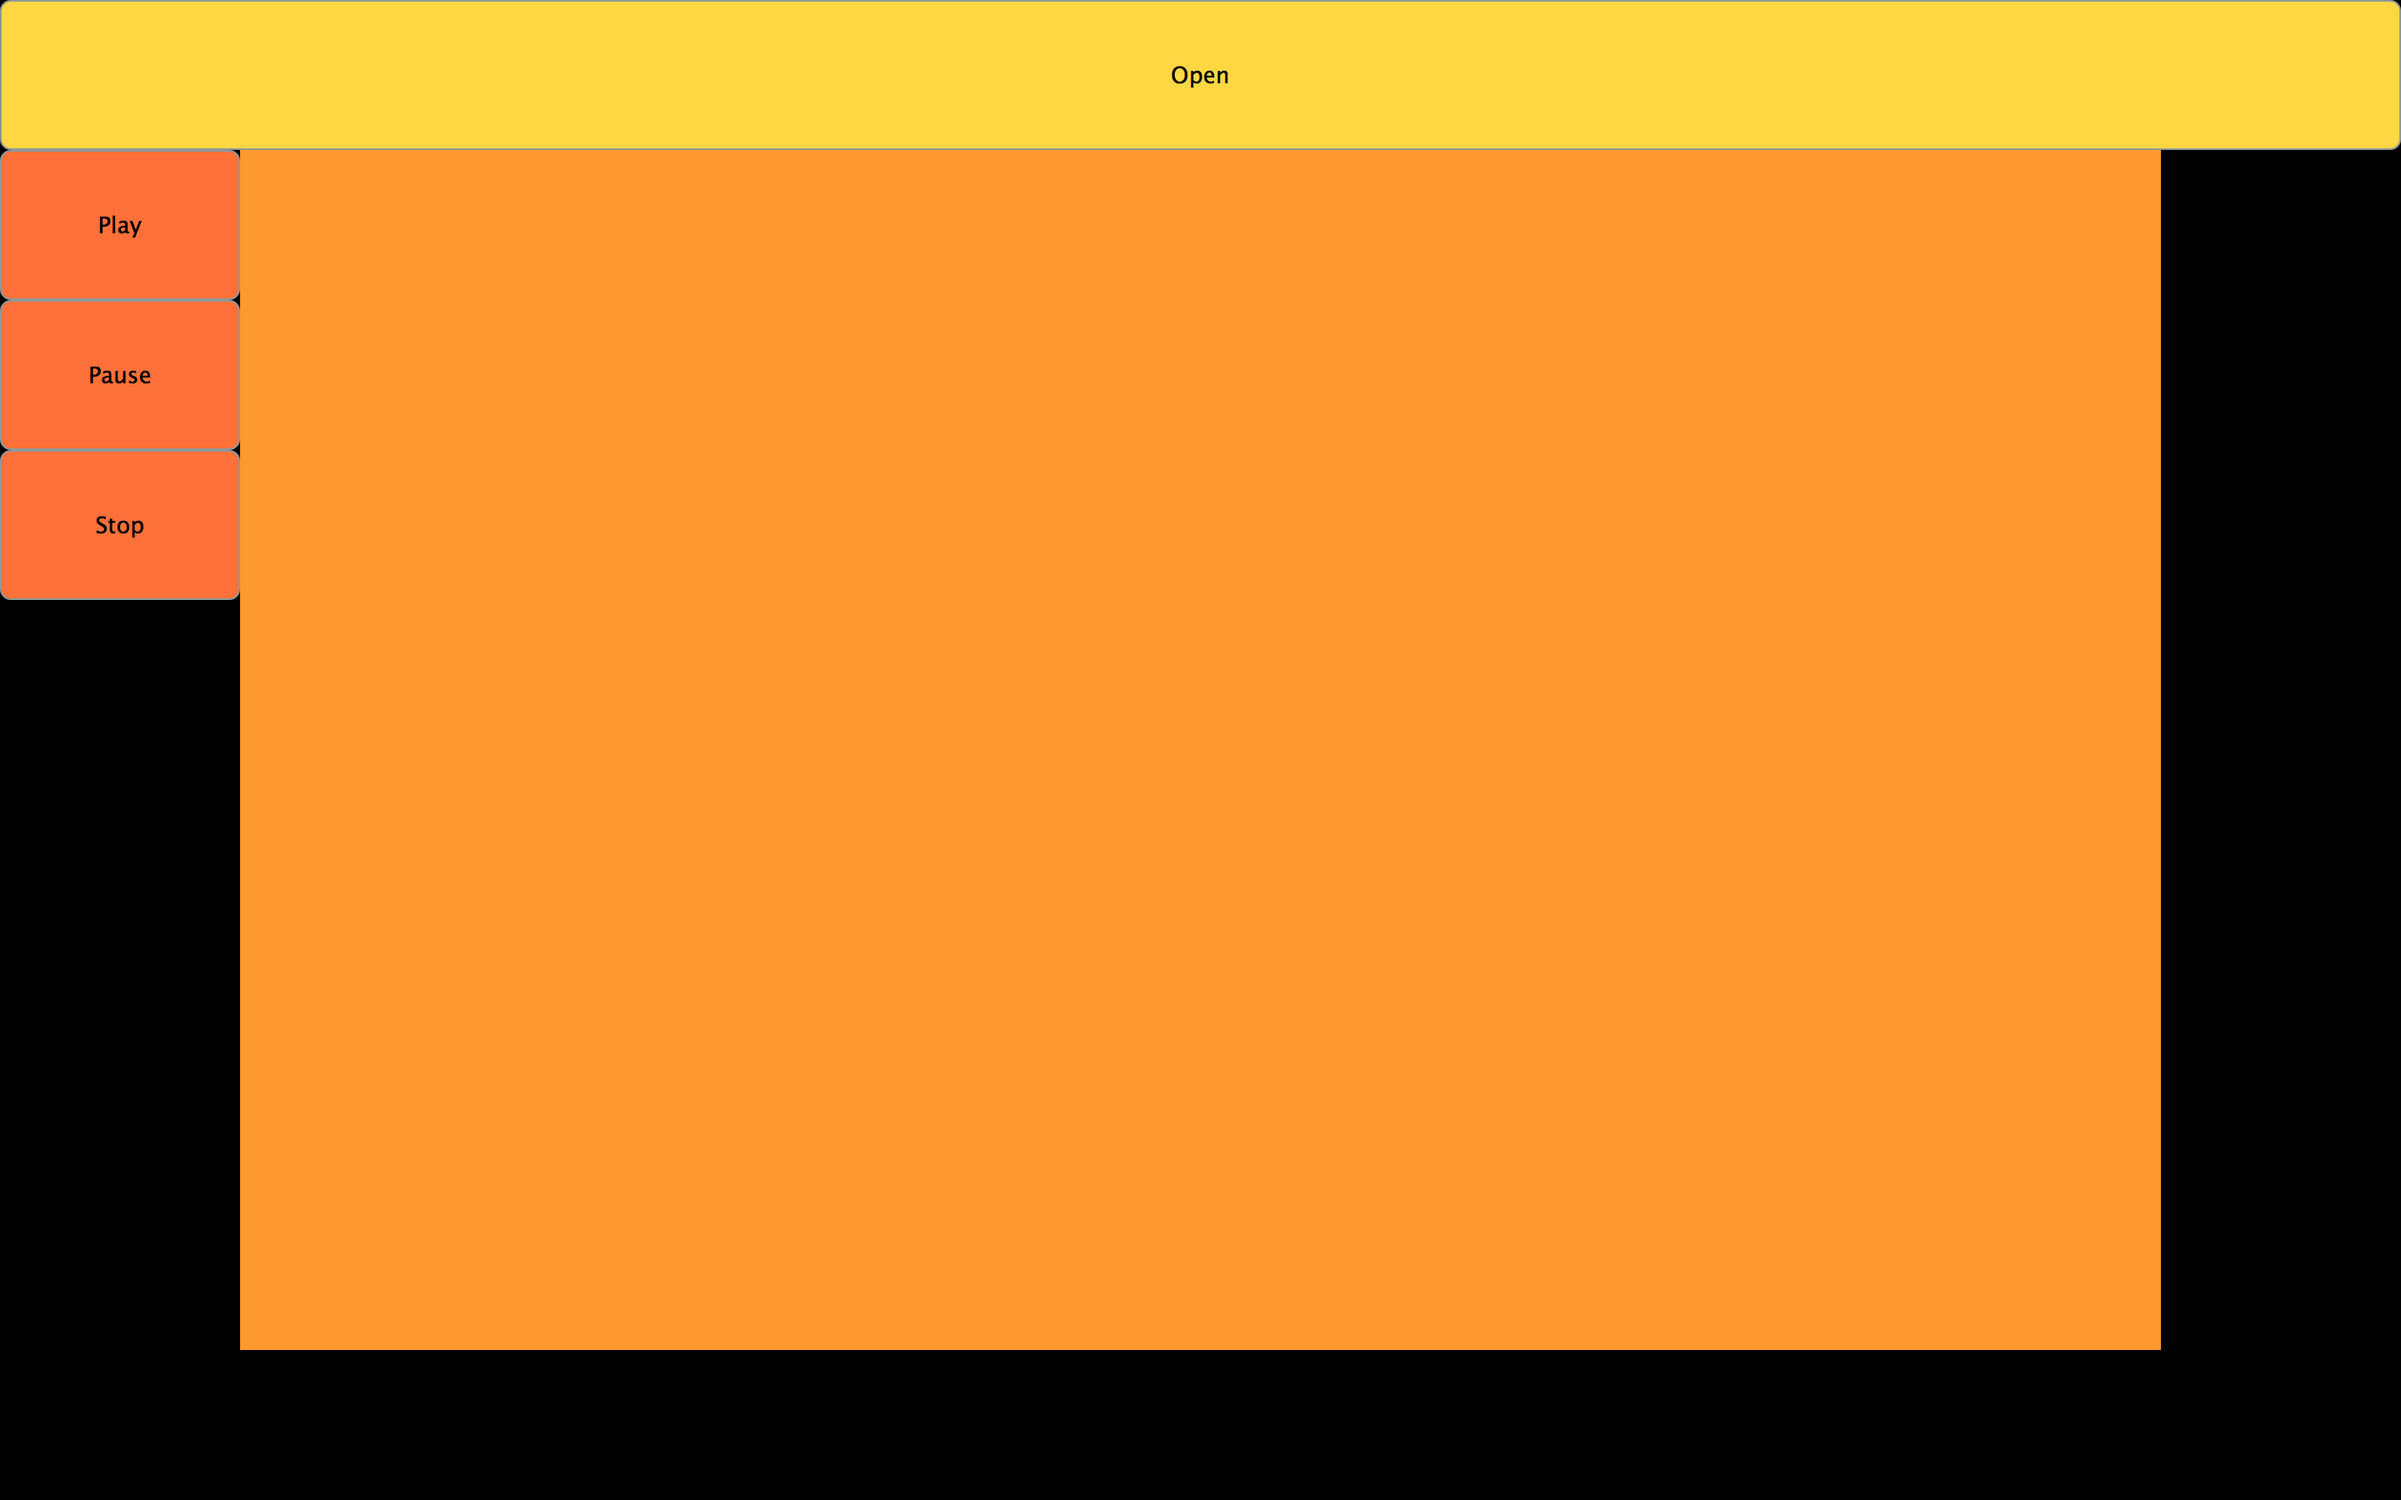
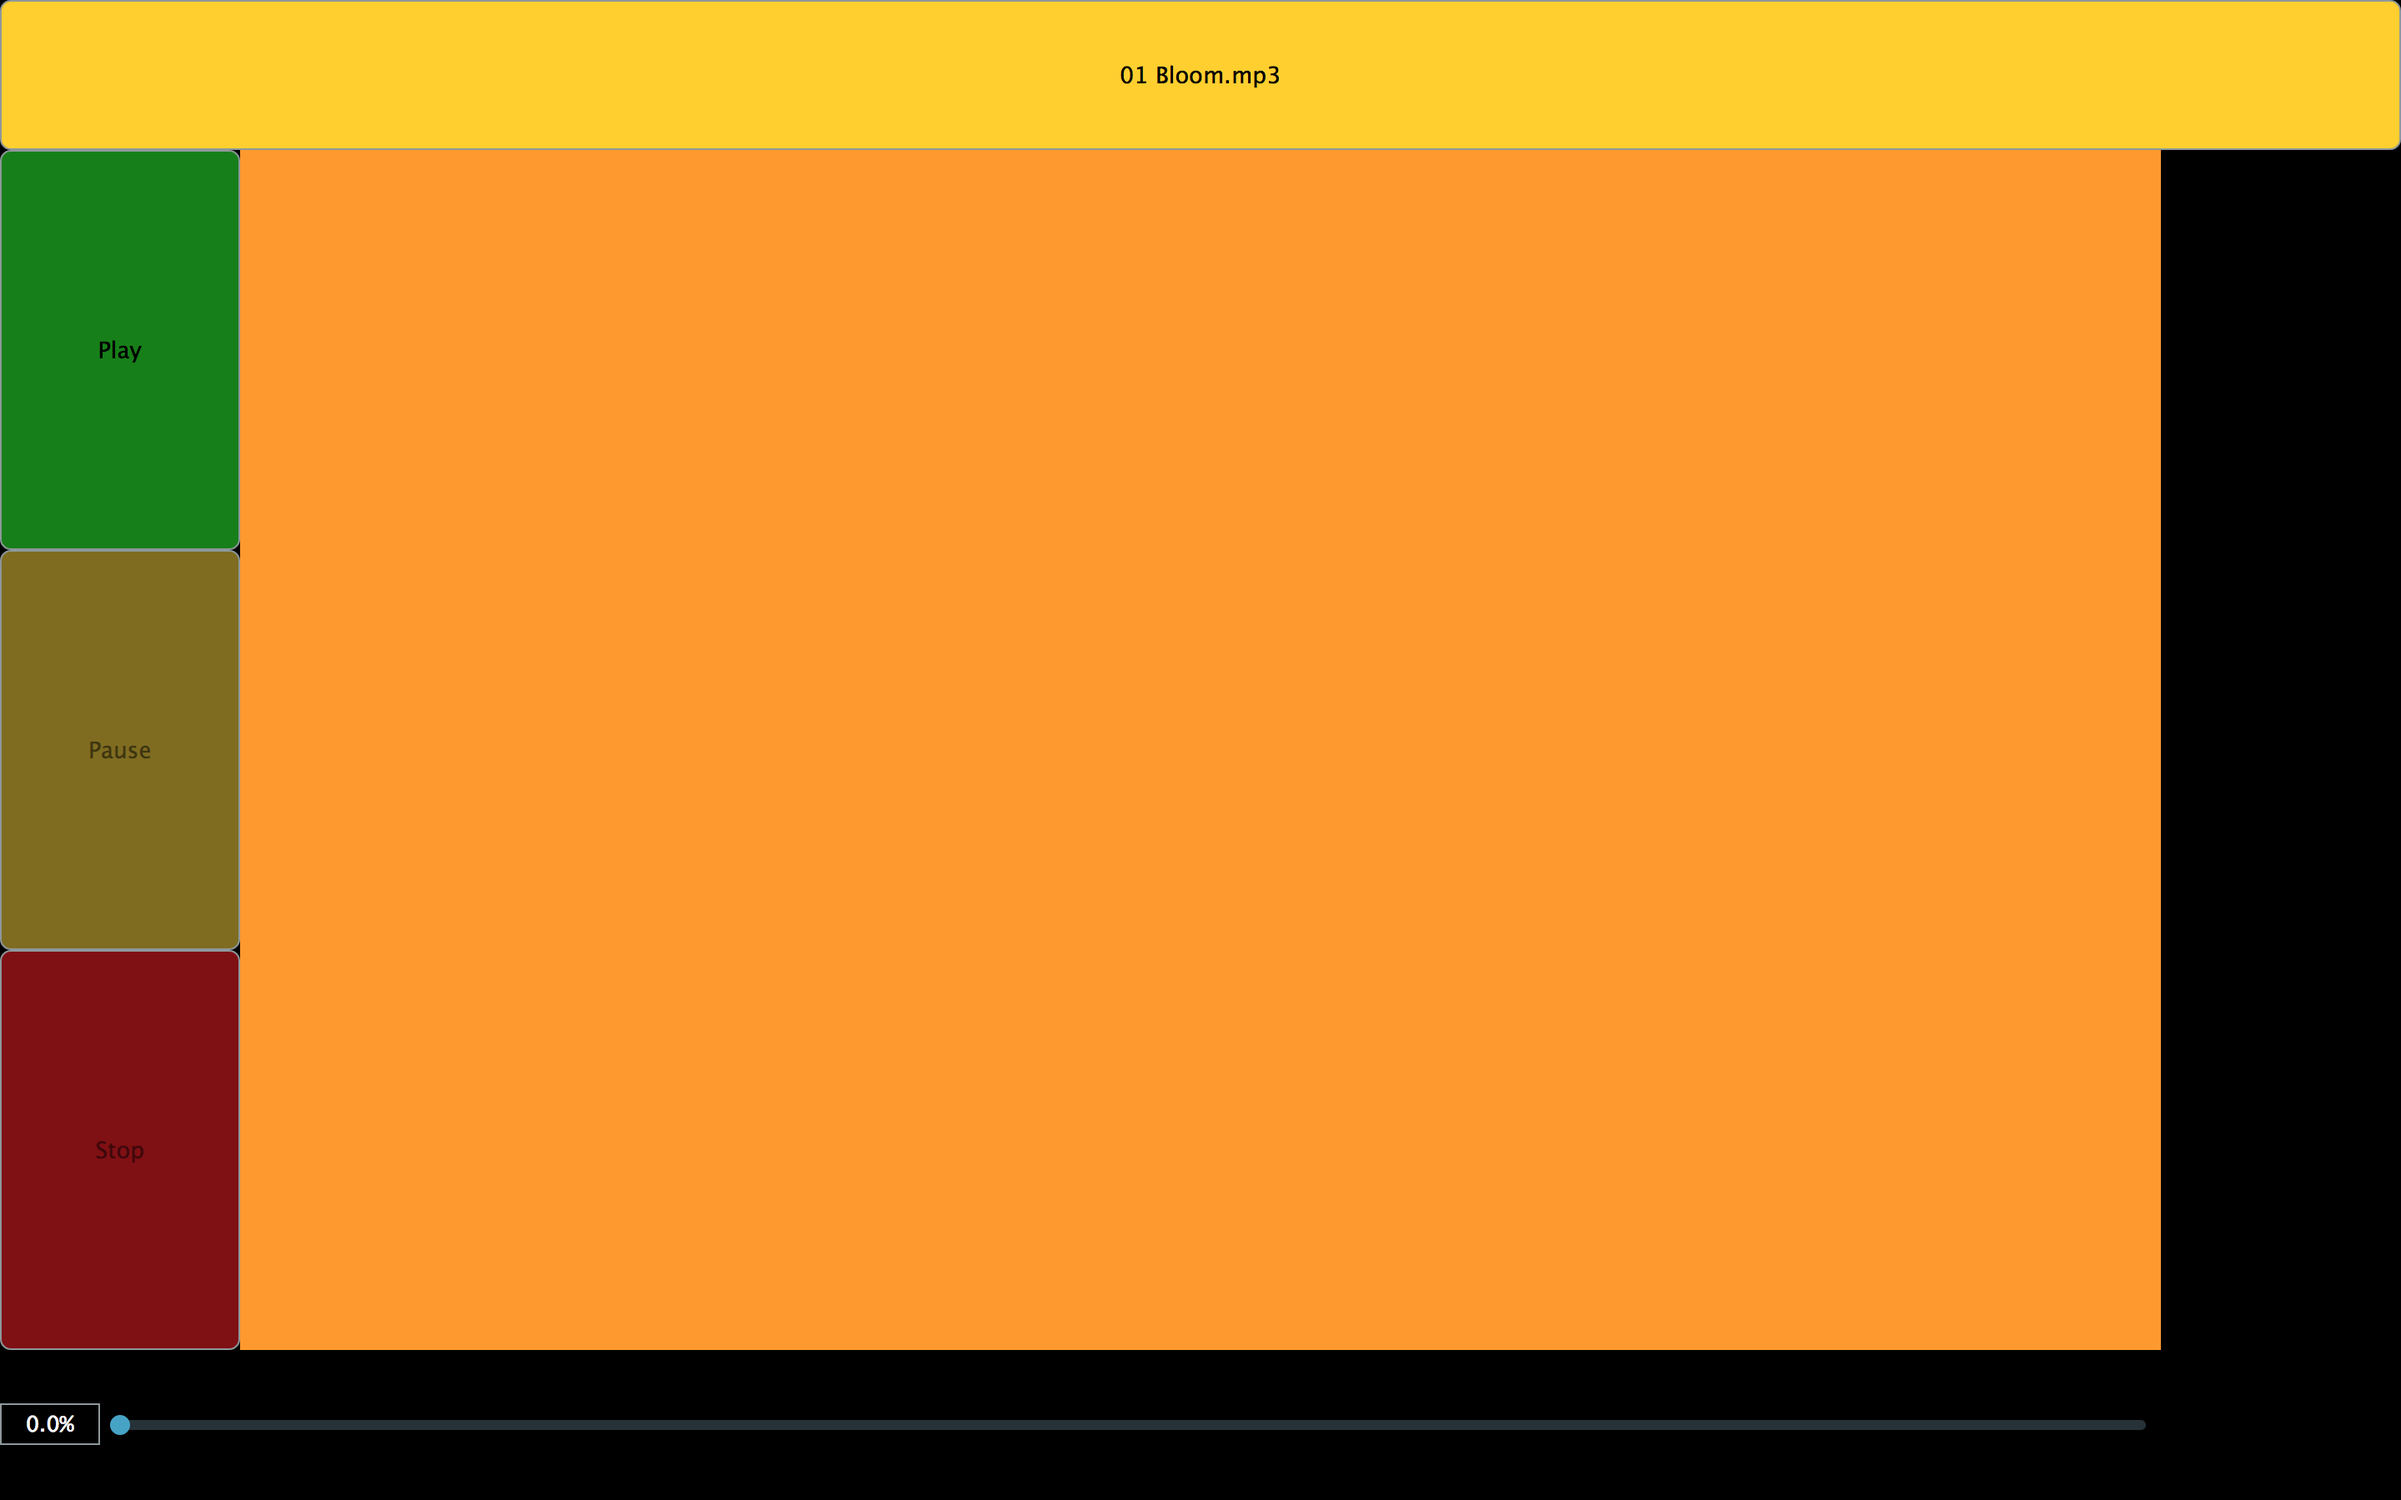
Fixed a bug with the transport bar on the bottom, changed the GUI slighty

Changed region(s): [[0.0, 0.0933, 0.125, 0.9022], [0.0, 0.9333, 0.9062, 0.9644], [0.4688, 0.0311, 0.5312, 0.0622]]

diff --git a/Application/Source/MainComponent.cpp b/Application/Source/MainComponent.cpp
@@ -10,10 +10,10 @@
 #include "MainComponent.h"
 
 //==============================================================================================================
-MainComponent::MainComponent() : state(Stopped), projectTime(0.0), fileLength(0), sampleFreq(44100)
+MainComponent::MainComponent() : state(Stopped), projectTime(0.0), fileLength(1), sampleFreq(44100)
 {
     // Sets the size of the application.
-    setSize (800, 600);
+    setSize (600, 400);
 
     // Specifies the number of input and output channels that we want to open.
     setAudioChannels (2, 2);
@@ -25,7 +25,7 @@ MainComponent::MainComponent() : state(Stopped), projectTime(0.0), fileLength(0)
     addAndMakeVisible(&stop);
     
     // Sets what all the text buttons say.
-    open.setButtonText("Open File");
+    open.setButtonText("---> Open a File <---");
     play.setButtonText("Play");
     pause.setButtonText("Pause");
     stop.setButtonText("Stop");
@@ -54,6 +54,10 @@ MainComponent::MainComponent() : state(Stopped), projectTime(0.0), fileLength(0)
     // Makes the spectrum analyzer and the audio progress bar visable.
     addAndMakeVisible(&spectrum);
     addAndMakeVisible(&transportProgress);
+    transportProgress.setRange(0, 100);
+    transportProgress.setTextValueSuffix("%");
+    transportProgress.setNumDecimalPlacesToDisplay(1);
+    transportProgress.setTextBoxStyle(juce::Slider::TextBoxLeft, false, 60, 25);
     startTimer(33); // 30 frame per second corresponds to ~33.3 or 33 milliseconds.
     
     filetypeManager.registerBasicFormats(); // Allows the user to select standard audio filetypes.
@@ -84,11 +88,12 @@ void MainComponent::openClicked()
             std::unique_ptr<AudioFormatReaderSource> selectedFileSource
                                                      (new AudioFormatReaderSource(fileReader,true));
             projectSource.setSource(selectedFileSource.get(), 0, nullptr, fileReader->sampleRate);
-            fileLength = selectedFileSource->getTotalLength();
             sampleFreq = fileReader->sampleRate;
+            fileLength = (static_cast<double>(fileReader->lengthInSamples)/sampleFreq);
             play.setEnabled(true); // Prepares the play button so that it can play.
             fileSource.reset(selectedFileSource.release());
         }
+        open.setButtonText(selectedFile.getFileName());
         
     }
 }
@@ -127,10 +132,6 @@ void MainComponent::changeState(playState newState)
                 stop.setEnabled(true);
                 pause.setEnabled(false);
                 play.setEnabled(true);
-                if(pause.getToggleState())
-                {
-                    projectSource.setPosition(projectSource.getCurrentPosition());
-                }
                 if(stop.getToggleState())
                 {
                     projectSource.setPosition(0.0);
@@ -156,11 +157,11 @@ void MainComponent::changeState(playState newState)
 
 void MainComponent::changeListenerCallback (ChangeBroadcaster* source)
 {
-    if( source == &projectSource ) // If the source of the callback is the projects source audio file.
+    if( source == &projectSource ) // If the source of the callback is the project's source audio file.
     {
         if( projectSource.isPlaying() ) // Checks to see if the project is playing.
         {
-            changeState(Playing); // If so changes the stat to playing.
+            changeState(Playing); // If so changes the state to playing.
         }
         else
         {
@@ -172,7 +173,8 @@ void MainComponent::changeListenerCallback (ChangeBroadcaster* source)
 void MainComponent::timerCallback()
 {
     projectTime = projectSource.getCurrentPosition();
-    double percentThrough = (projectTime)/(static_cast<double>(fileLength)/sampleFreq);
+    transportProgress.setValue(projectTime);
+    double percentThrough = 100*projectTime/fileLength;
     transportProgress.setValue(percentThrough);
 }
 
@@ -237,7 +239,7 @@ void MainComponent::resized()
     spectrum.setBounds(spectrumArea);
     
     // Sets the region for the progess bar.
-    Rectangle<int> progressBarArea(getLocalBounds().getWidth(),getLocalBounds().getHeight()*1/10);
+    Rectangle<int> progressBarArea(getLocalBounds().getWidth()*9/10,getLocalBounds().getHeight()*1/10);
     progressBarArea.setPosition(stopArea.getBottomLeft());
     transportProgress.setBounds(progressBarArea);
 }

diff --git a/Application/Source/MainComponent.h b/Application/Source/MainComponent.h
@@ -107,8 +107,8 @@ private:
                                         // Within the project.
     playState state;                    // State of viewer: Playing, Starting, Stopping, Stopped, or Paused.
     double projectTime;                 // Current time at the source file.
-    int64 fileLength;                   // Length of the project in samples.
-    double sampleFreq;                   // Sample rate of the selected file.
+    double fileLength;                  // Length of the project in seconds.
+    double sampleFreq;                  // Sample rate of the selected file.
     
     
     JUCE_DECLARE_NON_COPYABLE_WITH_LEAK_DETECTOR (MainComponent)
